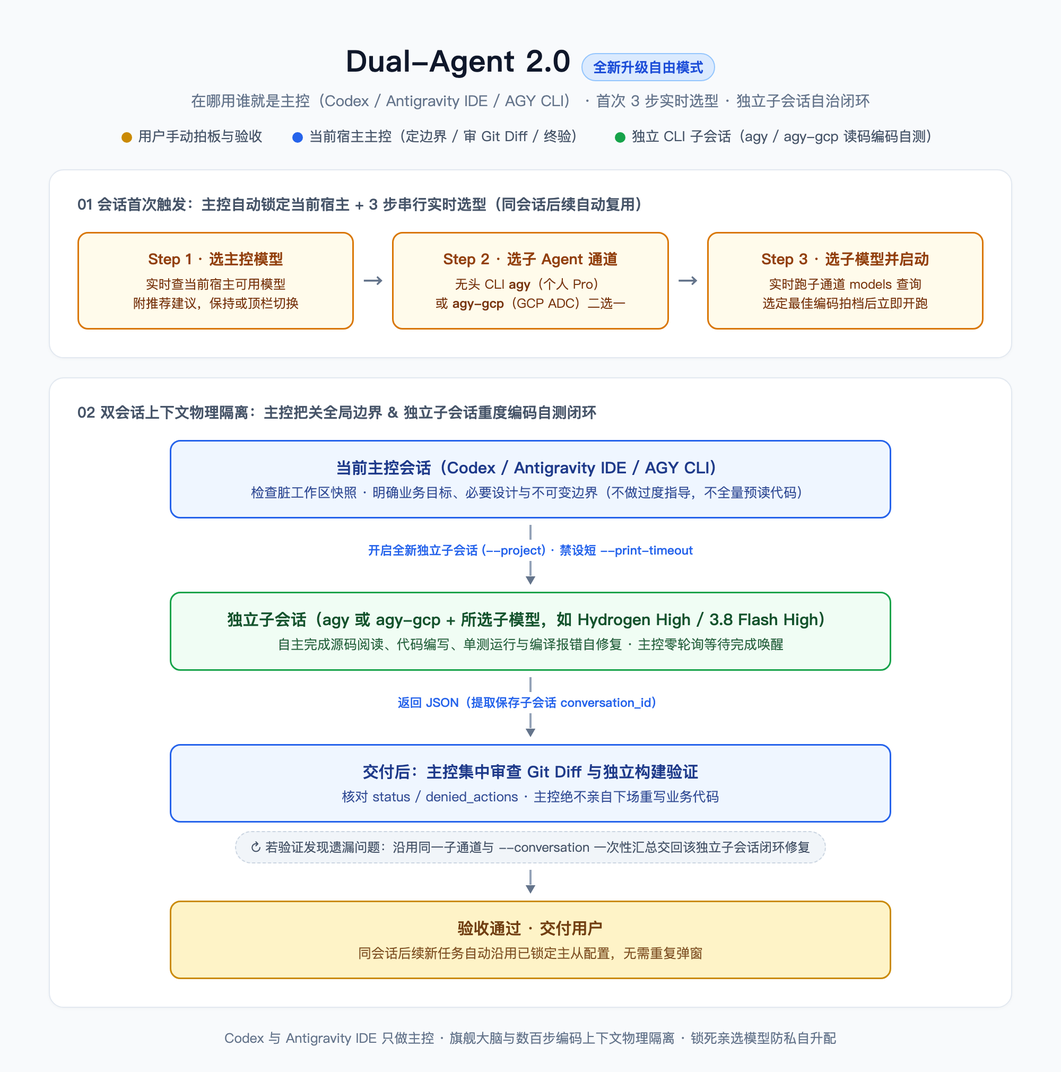
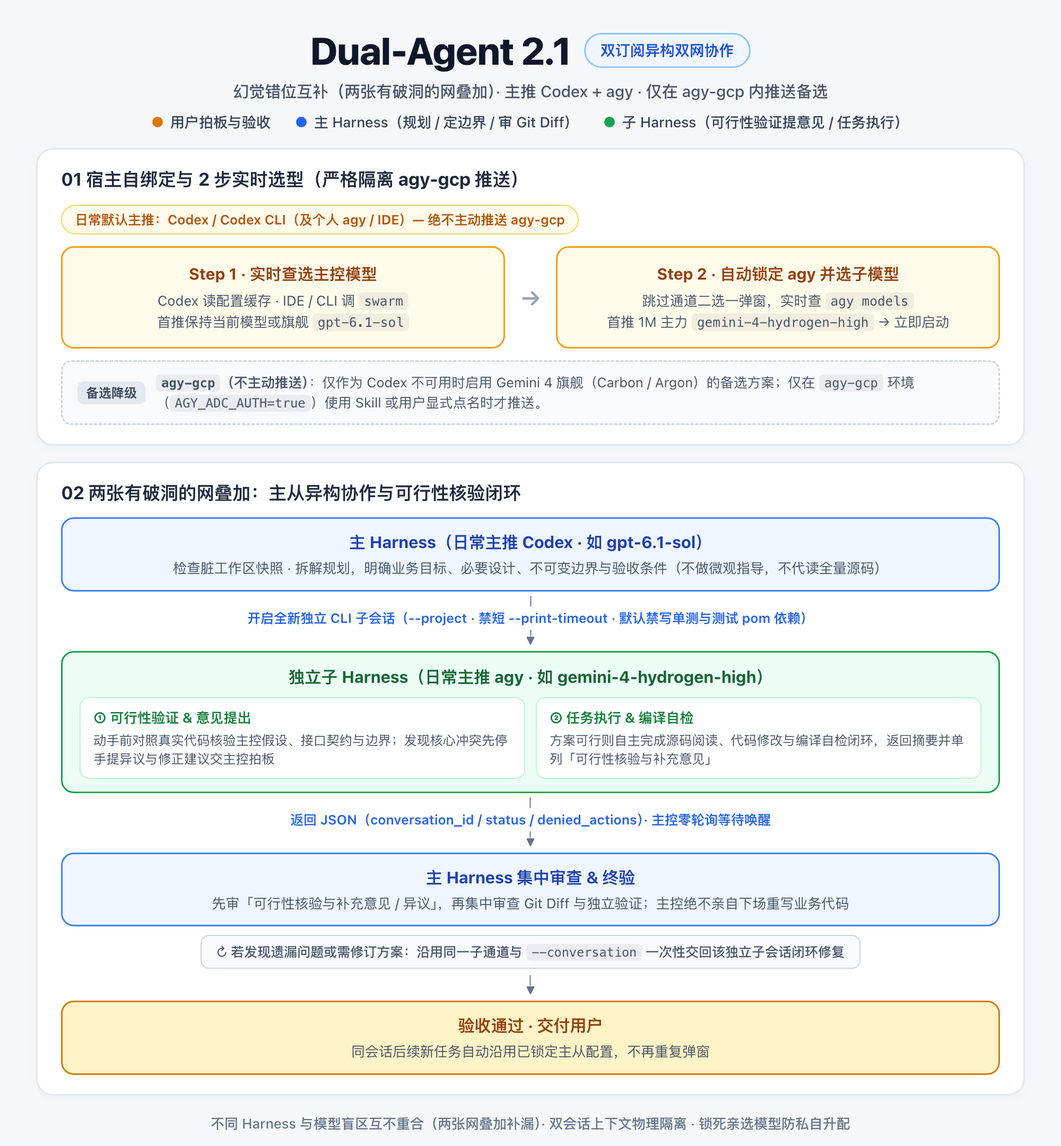
feat(2.1): make Codex+agy dual-subscription primary, demote agy-gcp to host-isolated fallback, and add worker feasibility verification

diff --git a/dual-agent/SKILL.md b/dual-agent/SKILL.md
@@ -1,32 +1,41 @@
 ---
 name: dual-agent
-description: 全新升级自由模式（2.0版本）主从双会话协作编排 Skill。主控自动绑定当前宿主（Codex / Antigravity IDE / AGY CLI，在哪用谁就是主控，免选主控通道；Codex 与 Antigravity IDE 仅做主控），同一会话首次触发时走 3 步串行弹窗【实时查询并选主控模型 → 选子 Agent 通道 (agy / agy-gcp) → 实时查询并选子模型】，给出推荐建议但由用户手动拍板后立即启动；强制开启独立子会话完成阅读、编码与自测闭环，主控集中审查 git diff 与终验。
+description: 主从双 Harness 异构协作编排 Skill（基于「幻觉错位 / 两张有破洞的网叠加」原理）。日常默认主推 Codex + agy 双订阅模式：在 Codex / Codex CLI 或个人环境中绝不主动推送 agy-gcp，首次触发精简为 2 步实时选型（选主控模型 → 锁定 agy 并选子模型）；agy-gcp 降级为 Codex 不可用时的 Gemini 4 旗舰备选方案，仅当在 agy-gcp 环境使用本 Skill（或用户显式点名）时才主动推送。主 Harness 负责规划、定边界、审 git diff 与终验；独立子 Harness 负责可行性验证与意见提出、任务执行与本地编译自检闭环。
 ---
 
-# Dual-Agent 2.0：主从双会话全新升级自由模式
+# Dual-Agent 2.1：双订阅异构双网协作编排
 
-## 一、 核心机制：在哪用谁就是主控 + 首次触发 3 步实时选型
+## 一、 核心理念：幻觉错位与「两张有破洞的网叠加」
 
-### 1. 主控自动绑定当前宿主（免选主控通道）
+### 1. 为什么需要两家工具叠加协作
+- **「幻觉错位」与「两张有破洞的网叠加」理论**：任何单一模型与单一 Harness（运行框架与工具链）都有固有的盲区、思维惯性与疏漏点，就像一张有破洞的网。不同 Harness（如 OpenAI Codex vs Antigravity CLI）与不同厂商模型家族（如 `gpt-6.1-*` vs `Gemini 4` / `Claude 5.5`）的疏漏点**天然错位、互不重合**。让两套不同体系叠加协作，可使漏洞相互遮盖，大幅压低单模型幻觉穿透与漏检风险。
+- **主从职责清晰互补**：
+  - **主 Harness（规划与终验）**：负责需求拆解、架构决策、明确目标与不可变边界、集中审查 `git diff` 及最终验收；
+  - **子 Harness（可行性验证提意见 + 任务执行）**：在独立新会话中对照真实代码库验证主控方案可行性、提出异议或修正建议，并自主完成代码实现与本地编译自检闭环。
 
-- **主控无需选择，天然绑定当前对话宿主**：
-  - 在 **Codex** 中调用 $\rightarrow$ 主控自动锁定为当前 **Codex 会话**；
-  - 在 **Antigravity IDE**（含 Antigravity 2.0 桌面端）中调用 $\rightarrow$ 主控自动锁定为当前 **Antigravity IDE 会话**；
-  - 在 **终端 `agy` / `agy-gcp` CLI** 中调用 $\rightarrow$ 主控自动锁定为**当前 CLI 会话**。
-- **单向角色边界**：
-  - **`Codex` 与 `Antigravity IDE` 只做主控、绝不做子 Agent**（不从外部反向调用 Codex CLI 或 IDE）；
-  - **子 Agent（Worker）** 仅在无头 CLI **`agy`（个人 Google Pro 通道）** 与 **`agy-gcp`（GCP Vertex AI ADC 通道）** 中自由选择，且**必须开启全新独立会话**（即使主控自身也是 `agy` / `agy-gcp` 或 Antigravity IDE，也通过独立 CLI 子会话实现“同体系不同模型、双会话上下文物理隔离”）。
+### 2. 日常主推方案与 `agy-gcp` 备选隔离规则
+- **日常默认主推：`Codex + agy` 双订阅模式**
+  - **主 Harness**：**Codex（桌面端 / Codex CLI）**（如 `gpt-6.1-sol` 等），专注架构把关与终验；
+  - **子 Harness**：**`agy`（个人 Google Pro 无头 CLI）**（如 1M 上下文/输出主力 `gemini-4-hydrogen-high`），承担可行性核验、意见反馈与重度编码闭环。既满足跨 Harness/跨厂商互补，又全程走固定双订阅额度，零额外按量账单。
+- **`agy-gcp` 降级定位（仅作备选）**：
+  - **`agy-gcp`（GCP Vertex AI ADC）** 降级为 **Codex 不可用时的备选方案**——当 Codex 不可用（额度耗尽、网络/账号受限）或处于 GCP 合规环境时，通过 `agy-gcp` 调用 **Gemini 4 旗舰（如 `gemini-4-carbon-medium` / `gemini-4-argon-medium`）** 顶替原 Codex 主控位置，配合独立子会话延续双网隔离。
+- **严格按宿主隔离推送（严禁越界推销 `agy-gcp`）**：
+  - **在 Codex / Codex CLI（及个人 `agy` CLI / 个人登录态 Antigravity IDE）中使用本 Skill 时**：**绝不主动推送 `agy-gcp`**（不列进默认选型弹窗），直接绑定 `agy` 作为子通道（仅用户主动在对话中明确点名要求 `agy-gcp` 时才切换）。
+  - **只有在 `agy-gcp` 环境中使用本 Skill 时**（检测到环境变量 `AGY_ADC_AUTH=true` 等 GCP ADC 激活态）：才主动推送 `agy-gcp` 通道及其旗舰/主力模型组合。
+- **主控自绑定 & 单向角色边界**：
+  - 在哪个宿主窗口调用，当前宿主即为主控；**`Codex` 与 `Antigravity IDE` 只做主控、绝不做子 Agent**（不从外部反向调用 Codex CLI 或 IDE）。
+  - **子 Harness 始终以全新独立 CLI 会话运行**（传 `--project` 而非当前会话 ID），把数百步读码、改码与报错修复隔离在子会话上下文内。
 
 ---
 
-### 2. 同一会话首次触发必走「3 步串行弹窗向导」
+## 二、 同一会话首次触发：宿主自适应「2 步实时选型向导」
 
-- **首次触发强制手动确认**：同一会话**第一次**调用 `$dual-agent` 时，**严禁跳过弹窗直接全量读码或修改业务代码**。必须使用当前宿主原生单选弹窗工具（Codex 使用 `functions.request_user_input_async` / `request_user_input`，Antigravity IDE / AGY CLI 使用 `ask_question`）严格按 **Step 1 $\rightarrow$ Step 2 $\rightarrow$ Step 3** 串行弹出，每步给出 `(Recommended)` 建议，由用户亲手点选后立即开始任务。
+- **首次触发强制手动确认**：同一会话**第一次**调用 `$dual-agent` 时，**严禁跳过选型弹窗直接全量读码或修改业务代码**。必须使用宿主原生单选弹窗（Codex 使用 `functions.request_user_input_async` / `request_user_input`，Antigravity IDE / CLI 使用 `ask_question`）按 **Step 1 $\rightarrow$ Step 2** 串行弹出，每步给出 `(Recommended)` 建议，由用户点选确认后立即启动。
 - **显式直达与会话级复用**：
-  - 若用户在首条消息中已明确说清某一步（例如已明确写出子通道和子模型），跳过已明确步骤、仅弹剩余未确认步骤；
-  - 一旦完成本会话首次选定，即持久记住 `{ masterModel, workerChannel, workerModel }`，**本会话后续所有新任务与返工续接自动沿用，不再重复弹窗**（除非用户主动提出“重新选模型 / 切换子 Agent”）。
+  - 若用户在首条消息中已明确指定某一步的模型（或显式点名使用 `agy-gcp`），跳过已明确步骤、仅弹剩余未确认步骤；
+  - 首次选定后持久记住 `{ masterHarness, masterModel, workerChannel, workerModel }`，**本会话后续所有新任务与返工续接自动沿用，不再重复弹窗**（除非用户主动要求“重新选模型 / 切换子 Agent”）。
 
-#### Step 1：实时查询主控可用模型 $\rightarrow$ 弹出【选择主控模型】
+### Step 1：实时查询主控可用模型 $\rightarrow$ 弹出【选择主控模型】
 **严禁凭静态记忆硬编模型列表**，先实时获取当前主控宿主的真实可用模型：
 
 - **当主控为 Codex 时**：运行以下轻量脚本实时读取当前激活模型与本地模型缓存：
@@ -50,70 +59,79 @@ description: 全新升级自由模式（2.0版本）主从双会话协作编排 
               print(f"{x.get('slug') or x.get('id')}\t{x.get('display_name','')}\t[{effs}]")
   PY
   ```
-- **当主控为 Antigravity IDE 或 AGY CLI 时**：直接调用内置工具 `swarm(action="models", all=true)`，毫秒级拿到当前窗口登录态的实时模型 ID 与显示名称。
+- **当主控为 Antigravity IDE 或 `agy` / `agy-gcp` CLI 时**：直接调用内置工具 `swarm(action="models", all=true)`，毫秒级拿到当前登录态的实时模型 ID 与显示名称。
 
 拿到实时列表后，发起 **Step 1 单选弹窗（选择主控模型）**：
-- 首项给出 `(Recommended)` 建议：若当前窗口已选模型即适合当前任务，首推 `(Recommended) 保持当前主控模型（<当前模型名>）— 直接进入下一步`；若任务属于高复杂度跨服务架构设计，提示推荐旗舰（如 Codex `gpt-6.1-sol`、GCP `Gemini 4 Carbon (Medium)`、个人 Pro `Gemini 4 Argon (Medium)`）；常规任务推荐主力（如 `Gemini 4 Hydrogen (High)`）。
-- 其余选项列出本次实时查出的核心候选模型（并在问题说明中附上完整实时列表供 `Other` 自由输入）。
-- **平滑切换说明**：主控就是当前宿主窗口本身——若用户选择保持当前模型，直接进入 Step 2；若用户点选了其他主控模型，在发起 Step 2 弹窗时顺带提示一句：“请顺手在输入框旁模型选择器（或 `/model`）切换为 `<所选主控模型>`，下一轮起自动按该主控模型运行”，无需额外多停一轮。
+- 首项给出 `(Recommended)` 建议：若当前窗口已选模型适合当前任务，首推 `(Recommended) 保持当前主控模型（<当前模型名>）— 直接进入下一步`；高复杂度跨服务规划场景可推荐对应宿主的旗舰模型（Codex 推荐 `gpt-6.1-sol`；`agy-gcp` 备选环境推荐 `Gemini 4 Carbon (Medium)`；个人 Pro IDE / `agy` 推荐 `Gemini 4 Argon (Medium)` 或 `Gemini 4 Hydrogen (High/XHigh)`）。
+- 其余选项列出本次实时查出的核心候选模型（并在问题描述中附上完整实时列表供 `Other` 自由输入）。
+- **平滑切换说明**：若用户点选了其他主控模型，在发起 Step 2 弹窗时顺带提示一句：“请顺手在输入框旁模型选择器（或 `/model`）切换为 `<所选主控模型>`，下一轮起自动按该主控模型运行”，无需额外多停一轮。
 
-#### Step 2：弹出【选择子 Agent 通道】（`agy` vs `agy-gcp`）
-发起 **Step 2 单选弹窗**，选择承担重度源码阅读、编码实现与测试闭环的独立 CLI 子通道：
-1. `(Recommended) agy — 个人 Google Pro CLI 通道（拥有 1M 上下文/输出的 Gemini 4 Hydrogen 高速主力且额度充裕，编码自测首选）`
-2. `agy-gcp — GCP Vertex AI ADC CLI 通道（适合企业合规环境或需调用 GCP 专属模型编码时选用）`
+### Step 2：按宿主自动锁定子通道 $\rightarrow$ 实时查选【子 Harness 模型】 $\rightarrow$ 立即执行
 
-#### Step 3：实时查询子通道可用模型 $\rightarrow$ 弹出【选择子 Agent 模型】 $\rightarrow$ 立即开始执行
-先针对 Step 2 选定的 `workerChannel` **实时查询**可用模型清单：
+**子通道自动判定规则（不再多弹一步通道选择，绝不主动推销 `agy-gcp`）**：
+- **在 Codex / Codex CLI、Antigravity IDE（个人态）或个人 `agy` CLI 中**：自动锁定 `workerChannel = "agy"`（**绝不主动推送 `agy-gcp`**；仅当用户已在指令中显式点名 `agy-gcp` 时才改为 `"agy-gcp"`）。
+- **仅当当前宿主处于 `agy-gcp` 环境时**（如环境变量 `AGY_ADC_AUTH=true` 已激活）：自动锁定 `workerChannel = "agy-gcp"`，主动推送 `agy-gcp` 模型列表。
+
+按锁定的 `workerChannel` **实时查询**子通道可用模型清单：
 
 ```bash
-# 1) 当子通道为 agy（个人 Google Pro）时：
+# 1) 默认个人通道 agy（Codex / 个人环境默认锁定此分支）：
 env -u AGY_ADC_AUTH -u GOOGLE_APPLICATION_CREDENTIALS -u CLOUDSDK_CORE_PROJECT -u GOOGLE_CLOUD_PROJECT agy models 2>/dev/null | tr '\r' '\n' | grep -E '^[a-z0-9][a-z0-9._-]+[[:space:]]+'
 
-# 2) 当子通道为 agy-gcp（GCP Vertex AI ADC）时：
+# 2) 仅当宿主为 agy-gcp（AGY_ADC_AUTH=true）或用户显式点名 agy-gcp 时执行：
 if command -v agy-gcp >/dev/null 2>&1; then agy-gcp models; elif [ -x "$HOME/.local/bin/agy-gcp" ]; then "$HOME/.local/bin/agy-gcp" models; else SHELL_SESSIONS_DISABLE=1 /bin/zsh -ic 'agy-gcp models'; fi 2>/dev/null | tr '\r' '\n' | grep -E '^[a-z0-9][a-z0-9._-]+[[:space:]]+'
 ```
 
-结合 Step 1 已选主控模型，发起 **Step 3 单选弹窗（选择子 Agent 模型）**：
-- **当 `workerChannel === "agy"` 时**：首推 `(Recommended) gemini-4-hydrogen-high — Gemini 4 Flash 级 1M 主力 workhorse，高吞吐编码与测试闭环最佳拍档`（尤其主控已选 `Argon` / `Carbon` / `gpt-6.1` 旗舰时，“旗舰主控定边界 + Hydrogen 独立子会话干重活”可防止几百步编码上下文烧穿旗舰周额度）；同列实时存在的 `gemini-4-hydrogen-xhigh`（超复杂逻辑攻坚）、`gemini-3.8-flash-high`（高额度保底）、`gemini-4-argon-medium`、`claude-sonnet-5-5-high` 等。
-- **当 `workerChannel === "agy-gcp"` 时**：若实时列表已含 `gemini-4-hydrogen-high` 则首推之，否则首推 `(Recommended) gemini-3.8-flash-high — 当前 GCP CLI 可用的高性价比编码主力`；同列实时存在的 `gemini-4-carbon-low`、`gemini-4-carbon-medium`、`gemini-4-argon-medium`、`claude-sonnet-5-5-high` 等。
-- **选完立即启动**：Step 3 返回后**不再追问“是否开始”**，直接打印一行锁定配置摘要：
-  `已锁定本会话自由模式配置：主控 = <当前宿主> (<masterModel>) | 子 Agent = <workerChannel> (<workerModel>，独立新会话)`，随即开始执行任务！
+结合 Step 1 主控模型，发起 **Step 2 单选弹窗（选择子 Harness 模型）**：
+- **当 `workerChannel === "agy"` 时**：
+  - 首推 `(Recommended) gemini-4-hydrogen-high — 1M 上下文/输出主力 workhorse，与 Codex 形成跨 Harness 异构双网互补，双订阅额度充裕`；
+  - 同列实时存在的 `gemini-4-hydrogen-xhigh`（超复杂逻辑与深度可行性校验）、`gemini-3.8-flash-high`（高额度保底）、`claude-sonnet-5-5-high`（若主控同为 Gemini 体系，推荐选跨厂商 Claude 以实现模型家族错位互补）、`gemini-4-argon-medium` 等。
+- **当 `workerChannel === "agy-gcp"` 时（仅 `agy-gcp` 宿主或用户显式要求触发）**：
+  - 若实时列表已含 `gemini-4-hydrogen-high`（实测 `agy 1.5.9` 已支持）则首推之，否则首推 `(Recommended) gemini-3.8-flash-high`；
+  - 若当前 `agy-gcp` 主控已选 `Gemini 4 Carbon (Medium)`，同步标注 `claude-sonnet-5-5-high` 可实现跨厂商模型家族互补（“两张网错位”），同列实时存在的 `gemini-4-hydrogen-xhigh`、`gemini-4-carbon-low`、`gemini-4-argon-medium` 等。
+- **选完立即启动**：Step 2 返回后**不再追问“是否开始”**，直接打印一行锁定配置摘要：
+  `已锁定本会话协同配置：主 Harness = <当前宿主> (<masterModel>) | 子 Harness = <workerChannel> (<workerModel>，独立新会话)`，随即开始执行任务！
 
 ---
 
-## 二、 核心协作原则与安全/配额护栏
+## 三、 核心协作原则与安全/配额护栏
 
-1. **主从职责分离与双会话物理隔离**：
-   - **不要把子 Agent 当傻子**：主控只负责明确**业务目标、必要设计、不可变边界和验收条件**，不替子 Agent 全量预读源码，不在提示词里教子 Agent 怎么调工具。
-   - **强制独立新会话**：即使当前主控本身在 Antigravity IDE 或 `agy` CLI 中运行，调用子 Agent 时也**必须开启全新的独立会话**（传 `--project` 而非当前会话 ID），把几百步文件搜索、代码修改与编译报错自修复彻底隔离在子会话上下文内，主控只审 `git diff` 与做最终验收。
-   - **生产代码与测试代码始终由子会话修改**：主控遇到返工或环境阻塞时汇总问题交回同一子会话修复，主控绝不亲自下场重写业务代码（仅纯文档拼写或单行常量微调除外）。
+1. **「两张网」职责分离与双会话物理隔离**：
+   - **主控定目标与边界，不做微观管理**：主 Harness 只负责明确**业务目标、必要设计、不可变边界和验收条件**，不替子 Harness 全量预读源码，不在提示词里教子 Harness 怎么调工具。
+   - **子 Harness 承担「可行性验证提意见 + 任务执行」**：
+     - **先核验再实施**：子会话动手改码前先对照真实代码核验主控方案。若发现**核心假设错误、接口/契约冲突或重大设计隐患**导致方案不可行，必须先停手输出可行性异议与修正建议，交主控拍板；若方案可行但存在局部边界风险或优化空间，正常执行并在交付摘要中单列**「可行性核验与补充意见」**。
+     - **强制独立新会话**：无论主控在 Codex、IDE 还是 CLI，子会话均**必须开启全新独立会话**（传 `--project` 而非主控会话 ID），把数百步源码阅读、修改与编译报错修复彻底隔离在子会话上下文内。
+   - **默认禁写测试代码与禁改测试 POM 依赖**：除非用户明确要求编写单元测试，否则主从均严禁新建 `src/test/**` 测试类或在 `pom.xml` 中擅自新增 `test` 依赖；验收以 `mvn compile` 编译校验、SQL/表结构对齐检查或运行态验证为主。
+   - **生产代码始终由子会话修改**：主控集中审查 `git diff` 与独立验证，发现问题一次性汇总交回同一子会话修复，主控绝不亲自下场重写业务代码（仅纯文档拼写或单行常量微调除外）。
 2. **双通道环境防串号与非交互 Shell 铁律**：
-   - **个人通道 `agy`**：必须通过 `env -u AGY_ADC_AUTH -u GOOGLE_APPLICATION_CREDENTIALS -u CLOUDSDK_CORE_PROJECT -u GOOGLE_CLOUD_PROJECT agy ...` 剥离父进程残留的 GCP 变量，防止误走 GCP 计费。
-   - **GCP 通道 `agy-gcp`**：优先直调可执行 `agy-gcp`（`command -v agy-gcp` 或 `$HOME/.local/bin/agy-gcp`），否则回退 `SHELL_SESSIONS_DISABLE=1 /bin/zsh -ic 'agy-gcp "$@"' zsh <参数...>`（位置参数 `"$@"` 透传防止多行提示词与 JSON 被二次转义破坏，并屏蔽 `Saving session...` 污染输出）。
+   - **个人通道 `agy`（默认）**：必须通过 `env -u AGY_ADC_AUTH -u GOOGLE_APPLICATION_CREDENTIALS -u CLOUDSDK_CORE_PROJECT -u GOOGLE_CLOUD_PROJECT agy ...` 剥离父进程残留的 GCP 变量，防止误走 GCP 计费。
+   - **GCP 通道 `agy-gcp`（备选/GCP 宿主）**：优先直调可执行 `agy-gcp`（`command -v agy-gcp` 或 `$HOME/.local/bin/agy-gcp`），否则回退 `SHELL_SESSIONS_DISABLE=1 /bin/zsh -ic 'agy-gcp "$@"' zsh <参数...>`（位置参数 `"$@"` 透传防止多行提示词与 JSON 被二次转义破坏，并屏蔽 `Saving session...` 污染输出）。
    - **每次 CLI 调用必传 `--model '<精确模型ID>'`**，覆盖共享 `~/.gemini/antigravity-cli/settings.json` 缓存。
 3. **锁死亲选模型 & 配额耗尽无缝兜底**：
-   - 执行与返工续接期间，**严格锁定用户在 Step 3 亲手选定的 `workerModel`，严禁主控私自升配其他模型**。
-   - 仅当所选子模型遇到配额耗尽（Quota exhausted / 429）或端点持续不可用报错时，按同通道降级链无缝兜底并在交付报告中如实说明（`agy`：所选模型 $\rightarrow$ `gemini-4-hydrogen-high` $\rightarrow$ `gemini-3.8-flash-high`；`agy-gcp`：所选模型 $\rightarrow$ 实时可用 `gemini-4-hydrogen-high` 或 `gemini-3.8-flash-high`）。
+   - 执行与返工续接期间，**严格锁定用户在 Step 2 亲手选定的 `workerModel`，严禁主控私自升配其他模型**。
+   - 仅当所选子模型遇到配额耗尽（Quota exhausted / 429）或端点持续不可用报错时，按同通道降级链无缝兜底并在交付报告中如实说明（`agy`：所选模型 $\rightarrow$ `gemini-4-hydrogen-high` $\rightarrow$ `gemini-3.8-flash-high`；`agy-gcp`：所选模型 $\rightarrow$ `gemini-4-hydrogen-high` $\rightarrow$ `gemini-3.8-flash-high`）。
 4. **脏工作区快照保护与禁短超时**：
    - **基线快照保护**：若委托前工作区存在未提交改动，先做好快照备份；子会话调用一律通过 `--settings` 物理拦截 `git reset / checkout / restore / clean`。
    - **严禁附加短 `--print-timeout`（如 `40s`/`90s`）**：保持原生默认 `0s`，避免冷启动（`8s~22s`）及旗舰流式首包排队/网络重试（`75s~160s`）被提前截断。
 
 ---
 
-## 三、 双宿主自适应子会话调度模板
+## 四、 双宿主自适应子会话调度模板
 
 ### 1. 当主控为 Codex 时：V8 循环 + `functions.wait` 零轮询派发子会话
 
-在 Codex 的 `functions.exec` 工具中运行（5 分钟内完成则 0 次中途唤醒）：
+在 Codex 的 `functions.exec` 工具中运行（日常默认锁定 `workerChannel = "agy"`，**绝不主动推送 `agy-gcp`**；5 分钟内完成则 0 次中途唤醒）：
 
 ```javascript
 // @exec: {"yield_time_ms": 300000, "max_output_tokens": 10000}
-const workerChannel = "<Step 2 用户选定的 workerChannel: agy 或 agy-gcp>";
-const workerModel = "<Step 3 用户选定的 workerModel>";
+const workerChannel = "agy"; // Codex 默认锁定 "agy" 双订阅；仅用户显式点名备选时才改为 "agy-gcp"
+const workerModel = "<Step 2 用户选定的 workerModel>";
 const prompt = `目标：<要实现的业务目标与关键技术决策>
-不可变边界：<必须保留的既有行为、接口与协议；禁止执行 git checkout/restore/reset/clean 丢弃未提交改动>
-验收条件：<构建或测试通过标准>
-请自主完成代码修改、测试编写与本地构建自检，修复发现的问题后返回改动摘要。`;
+不可变边界：<必须保留的既有行为、接口与协议；禁止执行 git checkout/restore/reset/clean 丢弃未提交改动；严禁未经用户明确要求新增 src/test/** 测试代码或在 pom.xml 中新增 test 依赖>
+验收条件：<mvn compile 编译检查或代码自检通过标准>
+执行与核验要求：
+1. 先对照真实源码核验上述方案的可行性：若发现核心假设错误、接口契约冲突或重大遗漏导致不宜直接改动，立即停手并输出可行性异议与修正建议；
+2. 若方案可行，自主完成代码修改与本地编译自检（默认禁写单测、禁加测试 pom 依赖），修复发现的问题后返回改动摘要，并单列「可行性核验与补充意见」（边界提醒、潜在风险或优化建议）。`;
 const settings = JSON.stringify({
   permissions: {
     deny: [
@@ -160,24 +178,26 @@ text(out);
 
 ---
 
-### 2. 当主控为 Antigravity IDE 或 AGY CLI 时：`run_command` 反应式唤醒派发子会话
+### 2. 当主控为 Antigravity IDE / AGY CLI / `agy-gcp` 时：`run_command` 反应式唤醒派发子会话
 
 主控直接通过原生 `run_command` 工具（设置 `WaitMsBeforeAsync: 10000`，`IsDaemon: false`）启动**全新独立子会话**（严禁传入主控当前会话 ID）：
 
 ```bash
 SETTINGS='{"permissions":{"deny":["command(git reset)","command(git checkout)","command(git restore)","command(git clean)"]}}'
 PROMPT='目标：<要实现的业务目标与关键技术决策>
-不可变边界：<必须保留的既有行为、接口与协议；禁止执行 git checkout/restore/reset/clean 丢弃未提交改动>
-验收条件：<构建或测试通过标准>
-请自主完成代码修改、测试编写与本地构建自检，修复发现的问题后返回改动摘要。'
+不可变边界：<必须保留的既有行为、接口与协议；禁止执行 git checkout/restore/reset/clean 丢弃未提交改动；严禁未经用户明确要求新增 src/test/** 测试代码或在 pom.xml 中新增 test 依赖>
+验收条件：<mvn compile 编译检查或代码自检通过标准>
+执行与核验要求：
+1. 先对照真实源码核验上述方案的可行性：若发现核心假设错误、接口契约冲突或重大遗漏导致不宜直接改动，立即停手并输出可行性异议与修正建议；
+2. 若方案可行，自主完成代码修改与本地编译自检（默认禁写单测、禁加测试 pom 依赖），修复发现的问题后返回改动摘要，并单列「可行性核验与补充意见」（边界提醒、潜在风险或优化建议）。'
 
-# workerChannel === "agy"（个人 Google Pro 通道）：
+# 默认个人通道 agy（Antigravity IDE 个人态 / agy CLI 默认走此分支）：
 env -u AGY_ADC_AUTH -u GOOGLE_APPLICATION_CREDENTIALS -u CLOUDSDK_CORE_PROJECT -u GOOGLE_CLOUD_PROJECT \
   agy --project '<项目ID或名称>' --model '<workerModel>' \
   --mode accept-edits --disable-slash-commands --dangerously-skip-permissions \
   --settings "$SETTINGS" --output-format json -p "$PROMPT"
 
-# workerChannel === "agy-gcp"（GCP Vertex AI ADC 通道）：
+# 仅当当前宿主就是 agy-gcp（AGY_ADC_AUTH=true）或用户显式点名 agy-gcp 备选时使用：
 if command -v agy-gcp >/dev/null 2>&1; then
   agy-gcp --project '<项目ID或名称>' --model '<workerModel>' --mode accept-edits --disable-slash-commands --dangerously-skip-permissions --settings "$SETTINGS" --output-format json -p "$PROMPT"
 elif [ -x "$HOME/.local/bin/agy-gcp" ]; then
@@ -191,26 +211,28 @@ fi
 
 ---
 
-### 3. 集中终验与续接返工
+### 3. 集中终验、意见处理与续接返工
 
 1. 从 `--output-format json` 返回结果中提取并保存子会话 `conversation_id`，同时核查进程退出码、`status`、`stderr` 及 `denied_actions`（不能仅凭退出码 `0` 认定完成）。
-2. 主控集中审查 `git diff` 并做独立构建/测试验证；若发现遗漏问题，将派发命令中的 `--project '<项目ID或名称>'` 替换为 `--conversation '<子会话 conversation_id>'`，保持同一 `workerChannel` 与 `workerModel` 一次性汇总打回修复。
+2. **先审「可行性异议 / 补充意见」再审 `git diff`**：
+   - 若子会话因发现根本性冲突而停手提出可行性异议，主控先基于真实反馈修订方案（必要时向用户确认决策），再将派发命令中的 `--project '<项目ID或名称>'` 替换为 `--conversation '<子会话 conversation_id>'` 下发修订方案继续执行；
+   - 若子会话已完成修改，主控审阅其「可行性核验与补充意见」，并集中审查 `git diff` 与执行独立编译/运行态验证；发现遗漏问题同样通过 `--conversation` 保持同一 `workerChannel` 与 `workerModel` 一次性汇总打回修复。
 3. 若多轮返工后子会话步数过多出现上下文衰减，开启全新独立子会话（传 `--project`）并精炼交接当前基线成果与剩余问题。
 
 ---
 
-### 4. 复杂方案单轮只读可行性评估（按需触发）
+### 4. 重大架构方案独立只读前置评估（按需触发）
 
-常规任务直接实施；仅当涉及复杂跨服务契约或状态机改造时，主控可先向子通道派发单轮只读评估（物理禁写文件与一切终端命令，仅使用原生文件读取与内置 `ripgrep` 搜索）：
+常规任务直接按上文单轮内嵌核验模式派发；仅当涉及跨服务契约重构、核心状态机改造或高风险数据库迁移时，主控可先向子 Harness 派发一轮**物理只读**可行性评估，拿回验证意见与边界清单后再拍板派发实施：
 
 ```bash
 EVAL_SETTINGS='{"allowNonWorkspaceAccess":false,"enableTerminalSandbox":true,"toolPermission":"request-review","permissions":{"deny":["write_file(*)","command(*)","mcp(*)","read_url(*)"]}}'
-# 按已选 workerChannel 与模型传入：--project '<项目ID或名称>' --model '<workerModel>' --mode accept-edits --disable-slash-commands --sandbox --settings "$EVAL_SETTINGS" --output-format json -p '评估以下方案的可行性，对照现有代码指出潜在冲突、遗漏边界和修正建议：<方案摘要>'
+# 按已锁定 workerChannel 与模型传入：--project '<项目ID或名称>' --model '<workerModel>' --mode accept-edits --disable-slash-commands --sandbox --settings "$EVAL_SETTINGS" --output-format json -p '请对照现有代码做只读可行性验证：指出以下方案的潜在冲突、遗漏边界、隐含风险及修正建议：<方案摘要>'
 ```
 
 ---
 
-## 四、 项目归属约定
+## 五、 项目归属约定
 
 始终在目标仓库根目录启动子会话 `agy` / `agy-gcp`：
 - 优先从 `~/.gemini/config/projects/*.json` 查找 `folderUri` 匹配当前仓库根目录的项目 `id` 传入 `--project '<项目ID>'`；

diff --git a/README.md b/README.md
@@ -1,15 +1,18 @@
-# Dual-Agent 2.0 — 全新升级自由模式
+# Dual-Agent 2.1 — 双订阅异构双网协作编排
 
-> **全新升级自由模式（2.0 版本）**：打破固定主从与写死模型的束缚——**在哪用谁就是主控**（支持 `Codex`、`Antigravity IDE`、`AGY CLI` 任意主控），同一会话首次触发时通过 **3 步实时模型弹窗**自由选定主从拍档，开启**全新独立子会话**（`agy` 个人 Pro 或 `agy-gcp` GCP ADC）完成阅读、编码与自测闭环，将架构决策与数百步编码上下文彻底物理隔离。
+> **核心理念（「幻觉错位 / 两张有破洞的网叠加」理论）**：不同 Harness（Agent 运行框架）与各家模型家族的思维盲区、疏漏点天然不一致。**日常默认主推 `Codex + agy` 双订阅模式**——主 Harness 负责需求规划、边界把控与 `git diff` 终验，独立子 Harness 负责**可行性验证提意见**与**任务执行自检闭环**，两张网错位叠加、互相兜底。**`agy-gcp` 降级为 Codex 不可用时的 Gemini 4 旗舰备选方案**，在 Codex / Codex CLI 中**绝不主动推送 `agy-gcp`**，仅在 `agy-gcp` 环境中使用本 Skill（或用户显式点名）时才主动推送。
 
 ## 核心亮点
 
-- **主控宿主自绑定（免选主控）**：在 `Codex`、`Antigravity IDE` 或终端 `agy` / `agy-gcp` 中发起对话，当前窗口自动锁定为主控（`Codex` 与 `Antigravity IDE` 仅作主控、不做被调子 Agent）。
-- **会话首次 3 步实时选型（后续自动复用）**：
-  1. **Step 1 选主控模型**：实时拉取当前主控真实可用模型列表并给出 `(Recommended)` 建议；
-  2. **Step 2 选子 Agent 通道**：在无头 CLI `agy`（个人 Google Pro）与 `agy-gcp`（GCP Vertex AI ADC）间自由二选一；
-  3. **Step 3 选子 Agent 模型**：实时执行子通道 `models` 查询，结合主控模型推荐最佳编码拍档，点选后**立即开跑**，同一会话后续任务自动沿用。
-- **同体系异构模型独立双会话**：支持在 Antigravity IDE 或 `agy` CLI 中用旗舰（`Carbon Medium` / `Argon Medium`）当大脑看需求与审 `git diff`，同时拉起全新独立子会话用 1M 主力（`gemini-4-hydrogen-high` / `gemini-3.8-flash-high`）干重活，既享受旗舰智商又绝不烧穿周配额。
+- **日常主推 `Codex + agy` 双订阅，防越界推送 `agy-gcp`**：
+  - 在 **Codex / Codex CLI**（及个人 `agy` / 个人 Antigravity IDE）中使用时，Skill **绝不主动推送 `agy-gcp`**，直接锁定 `agy` 个人 Pro 作为子通道，走双订阅固定成本 + 跨厂商模型异构互补。
+  - 仅当 **Codex 不可用** 或当前直接在 **`agy-gcp` 环境（`AGY_ADC_AUTH=true`）** 中触发 Skill 时，才主动推送 `agy-gcp` 调用 **Gemini 4 旗舰（`Carbon` / `Argon`）** 作为备选方案。
+- **主从 Harness 职责互补（规划审核 vs 可行性提意见 + 执行）**：
+  - **主 Harness**（主推 Codex `gpt-6.1-sol` 等）：负责规划拆解、定目标/不可变边界/验收条件、审查 `git diff` 与终验，绝不亲自下场重写业务代码。
+  - **子 Harness**（主推 `agy` `gemini-4-hydrogen-high` 等）：动手前先对照真实代码做**可行性验证并提出意见**（发现根本冲突立即停手提建议交主控拍板），可行则自主完成编码与编译自检闭环，并单列「可行性核验与补充意见」反馈。
+- **宿主自绑定 + 2 步实时选型（同会话自动复用）**：
+  1. **Step 1 实时查选主控模型**：Codex 实时读取 `~/.codex/config.toml` 与 `~/.codex/models_cache.json`，Antigravity IDE / `agy` / `agy-gcp` CLI 调内置 `swarm(action="models", all=true)`；
+  2. **Step 2 自动锁定子通道并实时查选子模型 $\rightarrow$ 立即开跑**：Codex / 个人环境直接锁定 `agy` 查 `agy models`（不推 `agy-gcp`）；仅 `agy-gcp` 宿主才查 `agy-gcp models`。选定后同会话后续任务与返工自动沿用。
 - **双宿主零轮询等待**：Codex 下基于 V8 `while` 循环 + `functions.wait` 持续等待，Antigravity IDE / CLI 下基于后台任务反应式自动唤醒，全程零轮询 Token 浪费。
 
 ---
@@ -24,42 +27,41 @@ mkdir -p ~/.codex/skills/dual-agent ~/.gemini/config/skills/dual-agent
 cp dual-agent/SKILL.md ~/.codex/skills/dual-agent/SKILL.md
 cp dual-agent/SKILL.md ~/.gemini/config/skills/dual-agent/SKILL.md
 
-# 2. （可选推荐）安装 GCP ADC 独立包装脚本与实时彩色看板脚本至 PATH
+# 2. （可选推荐）安装备选通道 agy-gcp 包装脚本与实时彩色看板脚本至 PATH
 mkdir -p ~/.local/bin
 cp bin/agy-gcp ~/.local/bin/agy-gcp
 cp bin/agy-watch ~/.local/bin/agy-watch
 ```
 
-安装后，在 **Codex** 或 **Antigravity IDE / CLI** 对话中调用 `$dual-agent`（或说明使用 `dual-agent` 自由模式）即可弹出选型向导开始协作：
-- [dual-agent/SKILL.md](dual-agent/SKILL.md)：3 步实时选型向导、双通道环境防串号与双宿主子会话调度模板。
-- [bin/agy-gcp](bin/agy-gcp)：GCP Vertex AI ADC 独立可执行包装器（自动解析 `~/.gemini/credentials/gcp-adc.json` 或标准 gcloud ADC 凭证与项目 ID）。
+安装后，在 **Codex**（主推）或 **Antigravity IDE / `agy` / `agy-gcp` CLI** 对话中调用 `$dual-agent` 即可弹出 2 步选型向导开始协作：
+- [dual-agent/SKILL.md](dual-agent/SKILL.md)：两张网理论分工、宿主隔离 2 步选型向导、可行性验证提示词与双宿主调度模板。
+- [bin/agy-gcp](bin/agy-gcp)：备选通道 GCP Vertex AI ADC 独立可执行包装器（自动解析 `~/.gemini/credentials/gcp-adc.json` 或标准 gcloud ADC 凭证与项目 ID）。
 - [bin/agy-watch](bin/agy-watch)：支持跨会话自动热切换的终端实时彩色执行大盘。
 - [CHANGELOG.md](CHANGELOG.md)：问题排查取证与版本演进记录。
 
 ---
 
-## 推荐自由组合速览
+## 推荐搭配与备选降级速览
 
-| 所在宿主（自动锁定为主控） | 主控推荐模型（定边界 / 审 `git diff`） | 独立子会话通道 & 推荐模型（读码 / 编码 / 自测） | 场景优势 |
-| :--- | :--- | :--- | :--- |
-| **Codex**（只做主控） | 当前窗口模型（如 `gpt-6.1-sol`） | `agy` + `gemini-4-hydrogen-high` | 零主控切换开销，用个人 Pro 充裕的 1M Hydrogen 主力包揽重度读写与单测 |
-| **Antigravity IDE**（只做主控） | `Gemini 4 Carbon (Medium)` 或 `Argon (Medium)` | `agy` + `gemini-4-hydrogen-high` | IDE 可视化审阅 + 旗舰大脑把关，数百步编码隔离在独立 CLI 子会话，不污染 IDE 主会话上下文 |
-| **终端 `agy` CLI** | `gemini-4-argon-medium` 或 `hydrogen-high` | `agy` + `gemini-4-hydrogen-high` | 纯个人 Pro 异构双会话：旗舰仅看几千 Token 边界与 `git diff`，彻底告别旗舰周配额击穿 |
-| **Antigravity IDE / `agy-gcp`** | `gemini-4-carbon-medium` | `agy-gcp` + `gemini-3.8-flash-high`（CLI 更新白名单后可切 `hydrogen-high`） | 全程运行在企业 GCP Vertex AI 合规边界内，主从独立双会话隔离 |
+| 定位 | 所在宿主（自动锁定为主控） | 主 Harness 推荐模型（规划 / 边界 / 审 `git diff`） | 独立子 Harness & 推荐模型（可行性验证提意见 + 执行闭环） | 核心优势 |
+| :--- | :--- | :--- | :--- | :--- |
+| **日常主推（默认）** | **Codex / Codex CLI**（绝不推送 `agy-gcp`） | 当前窗口旗舰（如 `gpt-6.1-sol`） | **`agy`** + `gemini-4-hydrogen-high`（复杂逻辑可用 `xhigh`） | OpenAI + Google 双订阅异构互补，1M 上下文主力干重活且零按量账单 |
+| **同体系隔离** | **Antigravity IDE / 个人 `agy` CLI** | `Gemini 4 Argon (Medium)` 或 `Hydrogen (High)` | **`agy`** + `gemini-4-hydrogen-high`（或跨厂商 `claude-sonnet-5-5-high`） | 旗舰大脑把关、数百步编码隔离在独立 CLI 子会话，不污染主会话且防烧穿周配额 |
+| **备选降级（仅 Codex 不可用或处于 `agy-gcp` 时推送）** | **`agy-gcp` CLI**（`AGY_ADC_AUTH=true`） | `gemini-4-carbon-medium` 或 `gemini-4-argon-medium` | **`agy-gcp`** + `gemini-4-hydrogen-high`（或跨厂商 `claude-sonnet-5-5-high`、`gemini-3.8-flash-high`） | Codex 无法使用时的 Gemini 4 旗舰顶替退路，实测 `agy 1.5.9` 已全量直通 Carbon / Hydrogen |
 
 ---
 
-## 架构与执行流程（2.0 自由模式）
+## 架构与执行流程（两张有破洞的网叠加）
 
-![Dual-Agent 2.0 自由模式架构及执行流程](assets/architecture.png)
+![Dual-Agent 2.1 双订阅异构双网协作架构与执行流程](assets/architecture.png)
 
 [查看完整尺寸 PNG](assets/architecture.png)
 
 ### 协作四原则
 
-1. **委托前**：检查脏工作区快照备份，主控讲清楚**业务目标、必要设计、不可变边界和验收条件**，不对子 Agent 做过度限制或手把手指导。复杂方案可按需派发单轮只读评估。
-2. **执行中**：直派全新独立子会话（**禁设短 `--print-timeout`**），由子会话自主完成阅读、编码、运行测试与局部纠错；主控零轮询静默等待完成唤醒。
-3. **交付后**：主控核对返回 JSON（`conversation_id`、`status`、`denied_actions`），集中审查 `git diff` 并执行独立验证，把遗漏问题一次性交回同一子会话修复。
+1. **委托前（主 Harness 规划）**：检查脏工作区快照备份，主控讲清楚**业务目标、必要设计、不可变边界和验收条件**，不对子 Harness 做过度限制或微观指导。重大跨服务改造可先派独立只读前置评估。
+2. **执行中（子 Harness 核验提意见 + 执行）**：直派全新独立子会话（**禁设短 `--print-timeout`**，默认禁写单测与禁加测试 POM 依赖）。子会话先核验方案可行性（遇根本冲突先停手提意见，可行则直接修改并编译自检），主控零轮询静默等待唤醒。
+3. **交付后（主 Harness 审 diff 终验）**：主控核对返回 JSON（`conversation_id`、`status`、`denied_actions`），先审子 Harness 的「可行性核验与补充意见」，再集中审查 `git diff` 并独立验证；发现遗漏一次性交回同一子会话修复。
 4. **出现阻塞时**：针对具体阻塞定向处理，主控绝不亲自下场重写业务代码。
 
 ---

diff --git a/AGENTS.md b/AGENTS.md
@@ -1,24 +1,26 @@
-# 主从双会话自由编排分工（Dual-Agent 2.0 自由模式）
+# 双订阅异构双网协作分工（Dual-Agent 2.1）
 
-用户决定业务目标、约束、主从模型选型和最终验收。协作的核心是**“在哪用谁就是主控”**：由当前主控会话（`Codex` / `Antigravity IDE` / `AGY CLI`）负责定边界与审查 `git diff` 终验，把海量源码阅读、编码实现与本地自测闭环交给**全新独立子会话**（`agy` 或 `agy-gcp`），实现主从上下文物理隔离。
+用户决定业务目标、约束、主从模型选型和最终验收。协作的核心理论是**「幻觉错位 / 两张有破洞的网叠加」**：不同 Harness（运行框架）与不同厂商模型家族的思维盲区和疏漏点互不重合，让两家模型工具协同互补（主 Harness 负责规划审核，子 Harness 负责可行性验证提意见与任务执行），大幅降低单模型幻觉穿透与漏检风险。
 
-- **主控自绑定 & 会话首次 3 步实时选型（同会话后续自动复用）**：
-  - **主控无需特意选择**：在哪个宿主窗口中发起任务，该窗口即为唯一主控（`Codex` 与 `Antigravity IDE` 只做主控、不做子 Agent）。
-  - 同一会话**第一次**调用 `$dual-agent` Skill 时，必须先走 3 步串行弹窗，给出 `(Recommended)` 建议，**由用户手动点选确认后立即启动任务**：
-    1. **实时查询并选主控模型**：实时拉取当前主控可用模型列表（Codex 读本地配置与模型缓存，Antigravity IDE / AGY CLI 调内置 `swarm(action="models", all=true)`），选择保持当前模型或顺手在顶栏切换目标主控模型；
-    2. **选子 Agent 通道**：在无头 CLI `agy`（个人 Google Pro 通道）与 `agy-gcp`（GCP Vertex AI ADC 通道）中自由二选一；
-    3. **实时查询并选子 Agent 模型**：实时跑所选子通道 `models` 命令，结合主控模型给出最佳搭档建议（如主控用旗舰 `Carbon` / `Argon` / `gpt-6.1` 时，推荐子会话用 1M 高速主力 `gemini-4-hydrogen-high` 或 `gemini-3.8-flash-high`），选定后立即开启**全新独立子会话**执行。
-  - **支持同体系异构模型双会话**：即使在 Antigravity IDE 或 `agy` CLI 内做主控，子 Agent 也开启全新独立会话运行不同模型（如主控 `Argon Medium` / `Carbon Medium` + 子会话 `Hydrogen High`），绝不把几百步编码上下文塞进旗舰主会话。
+- **日常默认主推 `Codex + agy` 双订阅 & `agy-gcp` 备选隔离规则**：
+  - **日常主推**：在 **Codex / Codex CLI**（主 Harness，如 `gpt-6.1-sol`）中使用 `$dual-agent` 时，默认直接配合个人 Google Pro 无头 CLI **`agy`**（子 Harness，如 1M 主力 `gemini-4-hydrogen-high`），兼顾跨 Harness/跨厂商互补与固定双订阅成本优势。
+  - **绝不越界推送 `agy-gcp`**：在 Codex / Codex CLI 及个人 `agy` / 个人 IDE 环境中调用本 Skill 时，**绝不主动推送 `agy-gcp`**；`agy-gcp` 已降级为 **Codex 不可用时的备选方案**（调用 Vertex AI Gemini 4 旗舰如 `gemini-4-carbon-medium` / `gemini-4-argon-medium` 顶替主控大脑），**只有在 `agy-gcp` 环境（`AGY_ADC_AUTH=true`）中使用 Skill 或用户显式点名时才推送**。
+- **主控自绑定 & 首次触发「2 步实时选型」（同会话后续自动复用）**：
+  - **在哪用谁就是主控**：在哪个宿主窗口发起任务，该窗口即为唯一主控（`Codex` 与 `Antigravity IDE` 只做主控、不做子 Agent）。
+  - 同一会话**第一次**调用 `$dual-agent` 时走 2 步串行弹窗，给出 `(Recommended)` 建议，由用户手动拍板后立即启动：
+    1. **实时查询并选主控模型**：Codex 读 `~/.codex/config.toml` 与 `~/.codex/models_cache.json`，Antigravity IDE / `agy` / `agy-gcp` CLI 调内置 `swarm(action="models", all=true)`；
+    2. **按宿主自动锁定子通道并实时查选子模型**：Codex 与个人环境直接锁定 `agy`（不推 `agy-gcp`），仅 `agy-gcp` 环境（或用户显式点名）才推送 `agy-gcp`；实时运行对应通道 `models` 查询并结合主控模型推荐最佳互补拍档，选定后立即开启**全新独立子会话**执行。
   - **同会话持久记忆**：选定后的配置在本会话后续轮次与返工中自动沿用，无需重复弹窗（除非用户要求重选）。
 - **执行与安全护栏**：
-  - **锁死亲选模型，严禁私自篡改**：执行与返工期间严格锁定用户在弹窗中亲选的子模型，**严禁私自升配其他模型**；仅当遇配额耗尽（429）或端点持续不可用报错时，按同通道降级链（`agy` $\rightarrow$ `gemini-4-hydrogen-high` $\rightarrow$ `gemini-3.8-flash-high`；`agy-gcp` $\rightarrow$ 实时可用 `gemini-4-hydrogen-high` 或 `gemini-3.8-flash-high`）无缝兜底并告知用户。
+  - **默认禁写单测与禁加测试 POM 依赖**：除非用户在当前对话显式要求编写单元测试，否则主从均严禁新建 `src/test/**` 或在 `pom.xml` 中擅自新增 `test` 依赖；默认采用 `mvn compile`、SQL/表结构对齐或运行态验证。
+  - **锁死亲选模型，严禁私自升配**：执行与返工期间严格锁定用户在弹窗中亲选的子模型；仅当遇配额耗尽（429）或端点持续不可用报错时，按同通道降级链（`gemini-4-hydrogen-high` $\rightarrow$ `gemini-3.8-flash-high`）无缝兜底并告知用户。
   - **双通道严格防串号**：调 `agy` 必通过 `env -u` 剥离 GCP ADC 环境变量；调 `agy-gcp` 走可执行 `agy-gcp` 或 `SHELL_SESSIONS_DISABLE=1 /bin/zsh -ic 'agy-gcp "$@"' zsh` 位置参数透传，每次必传 `--model`。
   - **禁加短 `--print-timeout`**：保持默认 `0s`，由宿主等待机制（Codex V8 `while` + `functions.wait`，Antigravity IDE / CLI 后台任务反应式唤醒）零轮询承接。
   - **微小收尾主控兜底**：纯文档拼写或微小单行调整由主控直接改完验证，不拉起子会话。
-- **四阶段极简协作闭环**：
-  - **委托前**：检查脏工作区快照备份，明确业务目标、必要设计、不可变边界和验收条件，不对子 Agent 做过度指导或细碎限制。
-  - **执行中**：直派独立子会话完成阅读、编码、运行测试与局部纠错；主控零轮询等待结果。
-  - **交付后**：主控集中审查 `git diff` 并做独立构建/测试终验，把遗漏问题一次性交回同一子会话修复。
-  - **出现阻塞时**：针对具体阻塞定向处理，主控不亲自下场重写业务代码。
+- **「两张网叠加」四阶段协作闭环**：
+  - **委托前（主 Harness 规划）**：检查脏工作区快照备份，明确业务目标、必要设计、不可变边界和验收条件，不对子 Harness 做微观指导。
+  - **执行中（子 Harness 核验提意见 + 执行）**：先对照真实代码核验主控方案可行性（若存在核心假设错误或契约冲突则停手提意见交主控拍板），可行则自主在独立子会话完成修改与编译自检，并在摘要中单列「可行性核验与补充意见」；主控零轮询等待结果。
+  - **交付后（主 Harness 审 diff 终验）**：主控先审可行性意见，再集中审查 `git diff` 并做独立编译/运行态验证，把遗漏问题一次性交回同一子会话修复。
+  - **出现阻塞时**：针对具体阻塞定向处理，主控绝不亲自下场重写业务代码。
 
 完整交互向导与双宿主调用模板见 `$dual-agent` Skill。

diff --git a/CHANGELOG.md b/CHANGELOG.md
@@ -1,5 +1,20 @@
 # Changelog
 
+## [2.1.0] - 2026-11-17 — 确立「两张网叠加」异构双订阅主推架构、`agy-gcp` 降级备选隔离与可行性核验闭环
+
+1. **明确「幻觉错位 / 两张有破洞的网叠加」理论与双订阅主推定位**：
+   - 确立日常默认主推 **`Codex + agy` 双订阅协作模式**：不同 Harness（Codex vs Antigravity CLI）与不同厂商模型（`gpt-6.1-*` vs `Gemini 4` / `Claude 5.5`）的思维盲区与疏漏点互不重合（幻觉错位），叠加协作可互相补漏并降低单模型幻觉穿透风险。
+   - **`agy-gcp` 降级为备选方案并严格按宿主隔离推送**：仅作为 Codex 不可用时启用 Gemini 4 旗舰（`Carbon` / `Argon`）顶替的备选退路。在 **Codex / Codex CLI（及个人 `agy` / IDE 环境）中绝不主动推送 `agy-gcp`**；**仅当在 `agy-gcp` 环境（`AGY_ADC_AUTH=true`）中使用 Skill 或用户显式点名时才推送 `agy-gcp`**。
+2. **Codex 选型向导精简为 2 步直达（取消默认通道二选一弹窗）**：
+   - **Step 1**：实时读取 `~/.codex/config.toml` 与 `~/.codex/models_cache.json` 选定主控模型；
+   - **Step 2**：自动锁定 `agy` 子通道（不推送 `agy-gcp`）并实时运行 `agy models` 选定子模型后立即开工（`agy-gcp` 宿主下同理锁定 `agy-gcp`）。
+   - 同步核验 `agy 1.5.9` 实测结果：`agy-gcp models` 已全面支持 `gemini-4-hydrogen-{high,xhigh,medium,low}`、`gemini-4-carbon-*`、`gemini-4-argon-*` 与 `claude-*-5-5-*`，更新 `README.md` 过时标注。
+3. **升级主从 Harness 职责分工：子 Harness 内嵌「可行性验证提意见 + 任务执行」**：
+   - 在执行 Prompt 中嵌入单轮内嵌核验契约：子 Harness 动手前先对照真实代码核验主控方案，发现核心假设错误或契约冲突时先停手提意见交主控拍板；可行则直接执行修改与本地编译自检，并在摘要中单列「可行性核验与补充意见」。重大跨服务改造保留独立只读前置评估（`EVAL_SETTINGS`）。
+   - 同步对齐全局「默认禁写 `src/test/**` 与禁加测试 `pom.xml` 依赖」规范至仓库版 `dual-agent/SKILL.md`、`AGENTS.md` 与 `README.md`，并重绘 `assets/architecture.png`。
+
+---
+
 ## [2.0.0] - 2026-11-13 — Dual-Agent 全新升级自由模式（主控宿主自绑定 + 3 步实时选型 + 独立子会话自由编排）
 
 > 项目由原 1.x 单向固定绑定（`codex-agy`）正式升级为 **`dual-agent` 2.0 全新升级自由模式**，统一兼容 **Codex**、**Antigravity IDE** 与 **AGY CLI**。
